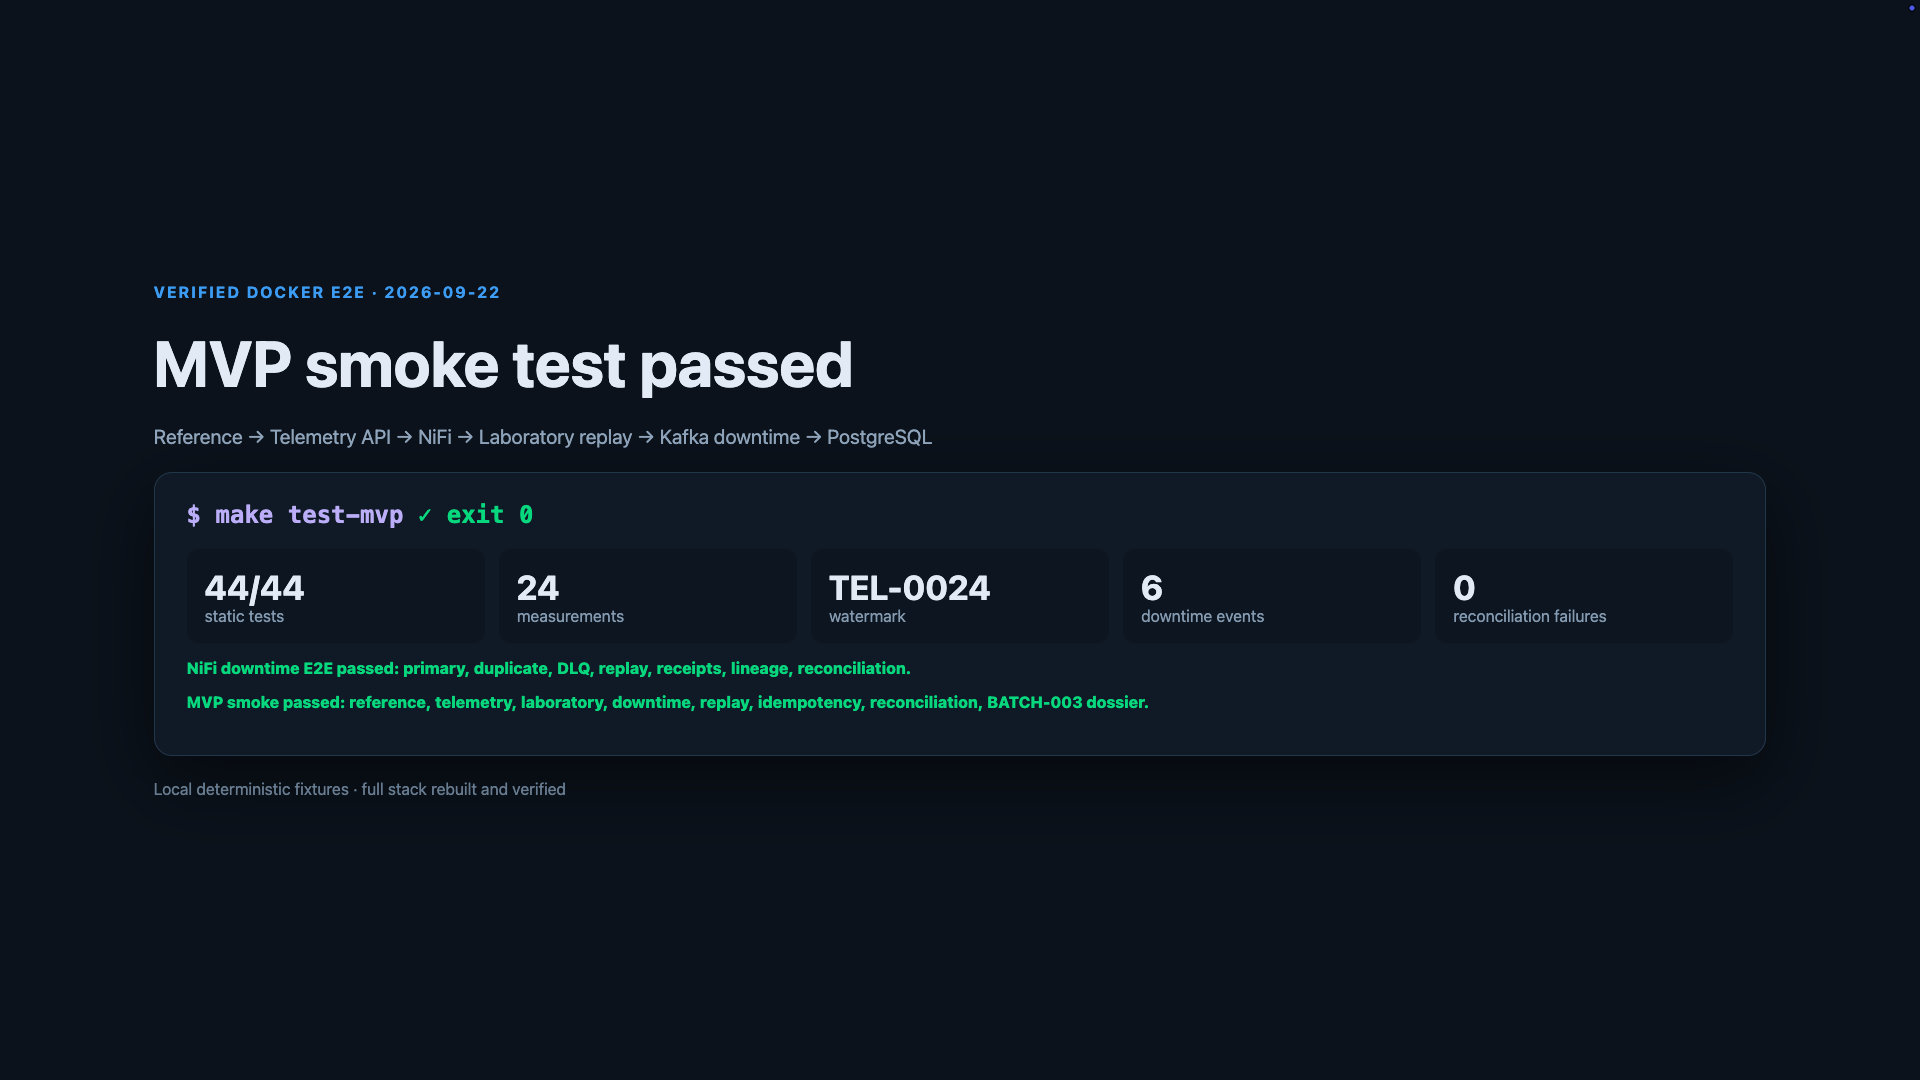
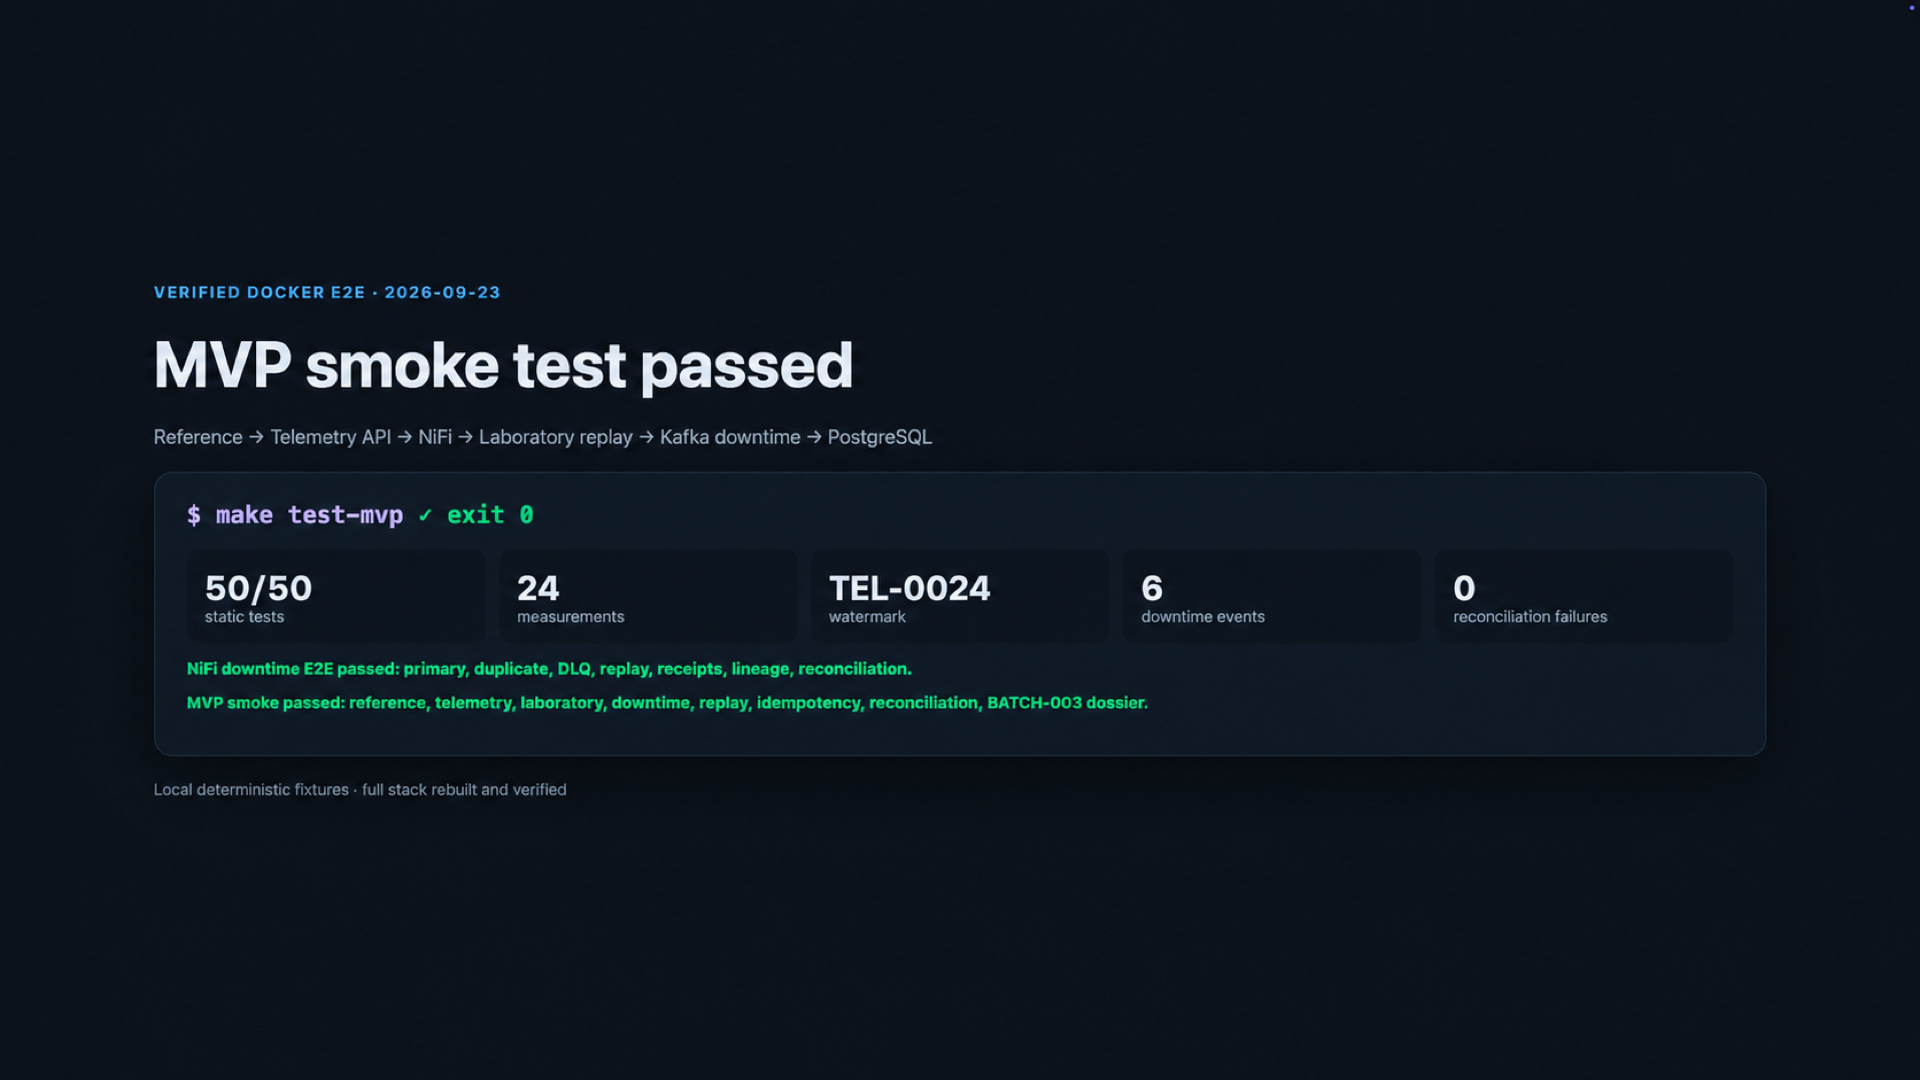
docs: polish employer-facing MVP evidence

diff --git a/README.md b/README.md
@@ -2,6 +2,10 @@
 
 **Polymer Production Quality & Downtime**
 
+[![CI](https://github.com/shipaaa/industrial-integration-lab/actions/workflows/ci.yml/badge.svg)](https://github.com/shipaaa/industrial-integration-lab/actions/workflows/ci.yml)
+[![License: MIT](https://img.shields.io/badge/License-MIT-yellow.svg)](LICENSE)
+[![Status: Demo-ready MVP](https://img.shields.io/badge/status-demo--ready%20MVP-2ea44f.svg)](docs/07-runbooks/mvp-demo.md)
+
 Portfolio-grade industrial data integration project demonstrating how equipment telemetry, laboratory quality results, reference data, and downtime events can be ingested, validated, reconciled, and prepared for analysis.
 
 The lab is designed to demonstrate the practical responsibilities of a Middle Technical Implementation Engineer: discovery, source analysis, solution design, data mapping, integration development, testing, deployment planning, troubleshooting, and operational handover.
@@ -9,6 +13,33 @@ The lab is designed to demonstrate the practical responsibilities of a Middle Te
 > **Project status:** Demo-ready MVP. All four source channels are executable,
 > all three NiFi process groups are reproducibly provisioned from Git, and one
 > Docker smoke test verifies the complete BATCH-003 investigation path.
+
+![Verified MVP smoke test](docs/assets/demo/05-mvp-smoke-result.png)
+
+## What this project proves
+
+| Area | Demonstrated outcome |
+|---|---|
+| Sources | REST telemetry, laboratory CSV, reference JSON, and Kafka downtime events |
+| Orchestration | Three Git-managed Apache NiFi process groups with bounded retries |
+| Reliability | Watermarks, idempotency, duplicate handling, DLQ, correction replay, and reconciliation |
+| Investigation | One BATCH-003 dossier links a failed lab result to a process deviation and 7 downtime minutes |
+| Acceptance | One deterministic Docker command verifies the complete integration path |
+
+## Quick start
+
+Prerequisites: Docker Desktop with Compose v2 and Python 3.9 or newer.
+
+```bash
+cp .env.example .env
+make test
+make test-mvp
+```
+
+`make test` runs the fast contract suite. `make test-mvp` builds the full local
+stack and exercises all four sources, replay paths, idempotency, reconciliation,
+and the final investigation mart. See the
+[10–15 minute demo runbook](docs/07-runbooks/mvp-demo.md) for the operator flow.
 
 ## Business Scenario
 
@@ -31,7 +62,7 @@ The integration platform will connect these datasets so that production and qual
 - Were all expected source records loaded exactly once?
 - Can rejected or missed data be safely corrected and replayed?
 
-## Planned Solution
+## Architecture
 
 ```mermaid
 flowchart LR
@@ -43,25 +74,25 @@ flowchart LR
     NIFI --> STG["PostgreSQL STG"]
     LOADER --> STG
     STG --> ODS["PostgreSQL ODS"]
-    ODS --> DDS["PostgreSQL DDS"]
-    DDS --> DM["PostgreSQL DM"]
+    ODS --> DM["PostgreSQL DM"]
+    ODS -. "post-MVP" .-> DDS["Reserved DDS"]
 
     NIFI --> REJECTED["Rejected records"]
     KAFKA --> DLQ["Kafka DLQ"]
 ```
 
-The complete environment is intended to run locally through Docker Compose and contain:
+The MVP environment runs locally through Docker Compose and contains:
 
 - a FastAPI application that simulates the telemetry source system;
 - Apache NiFi for ingestion, validation, routing, retry, and failure handling;
 - a single-broker Kafka setup for downtime-event delivery and replay exercises;
-- PostgreSQL organized into STG, ODS, DDS, and DM layers;
+- PostgreSQL schemas for STG, ODS, reserved DDS, and DM layers;
 - separate audit, control, reconciliation, and rejected-record structures;
 - structured logs and correlation IDs for end-to-end traceability.
 
-## Target Capabilities
+## Demonstrated capabilities
 
-The implementation will demonstrate:
+The implementation demonstrates:
 
 - incremental data loading;
 - idempotent processing and duplicate handling;
@@ -72,7 +103,7 @@ The implementation will demonstrate:
 - Kafka consumer recovery, DLQ handling, and controlled replay;
 - source-to-target mapping and data lineage;
 - operational troubleshooting using logs, audit data, and correlation IDs;
-- UAT, rollout, rollback, and support documentation.
+- deterministic acceptance, replay, recovery, and operator runbooks.
 
 ## Data Platform Layers
 
@@ -82,6 +113,9 @@ The implementation will demonstrate:
 | **ODS** | Store validated, standardized, and deduplicated operational records |
 | **DDS** | Represent conformed dimensions and facts at explicitly defined grains |
 | **DM** | Provide focused analytical datasets for quality and downtime analysis |
+
+DDS is intentionally reserved but not populated in the MVP; the accepted path
+is STG → ODS → DM so the demonstration stays focused on integration behaviour.
 
 Invalid records will not be silently discarded. They will be stored separately with the original payload, validation reason, source metadata, correlation ID, and processing timestamp.
 
@@ -113,24 +147,24 @@ The project intentionally excludes:
 
 Kafka is used only at the application level to demonstrate event consumption, duplicate handling, failure isolation, and replay.
 
-## Planned Evidence
+## Portfolio evidence
 
-The completed portfolio project will include:
+The repository includes:
 
-- documented discovery decisions and assumptions;
-- functional and non-functional requirements;
 - four versioned source contracts;
 - source-to-target mappings and lineage diagrams;
 - reproducible Docker-based deployment;
 - NiFi flow documentation and provenance screenshots;
 - SQL data-quality and reconciliation results;
-- UAT scenarios and acceptance evidence;
-- rollout and rollback checklists;
-- an operational runbook;
-- two documented incident investigations;
+- operational and replay runbooks;
+- deterministic acceptance evidence;
 - a guided end-to-end demo.
 
-## Current Work
+Post-MVP extensions are intentionally limited to moving the static reference
+loader into NiFi, production security and observability, and a fuller DDS/BI
+serving layer. They are not required for the portfolio demonstration.
+
+## MVP status
 
 Reference ingestion, telemetry API ingestion, versioned laboratory CSV
 ingestion, and Kafka downtime ingestion are implemented. NiFi owns orchestration

diff --git a/docs/08-demo-evidence.md b/docs/08-demo-evidence.md
@@ -69,7 +69,7 @@ make test-mvp
 After the command exits successfully, capture the final terminal section or a
 local result view built from that same run containing:
 
-- 44 passing static tests;
+- 50 passing static tests;
 - the successful NiFi downtime E2E line;
 - the final BATCH-003 row;
 - `24`, `TEL-0024`, `2`, `6`, and `0` in the summary;
